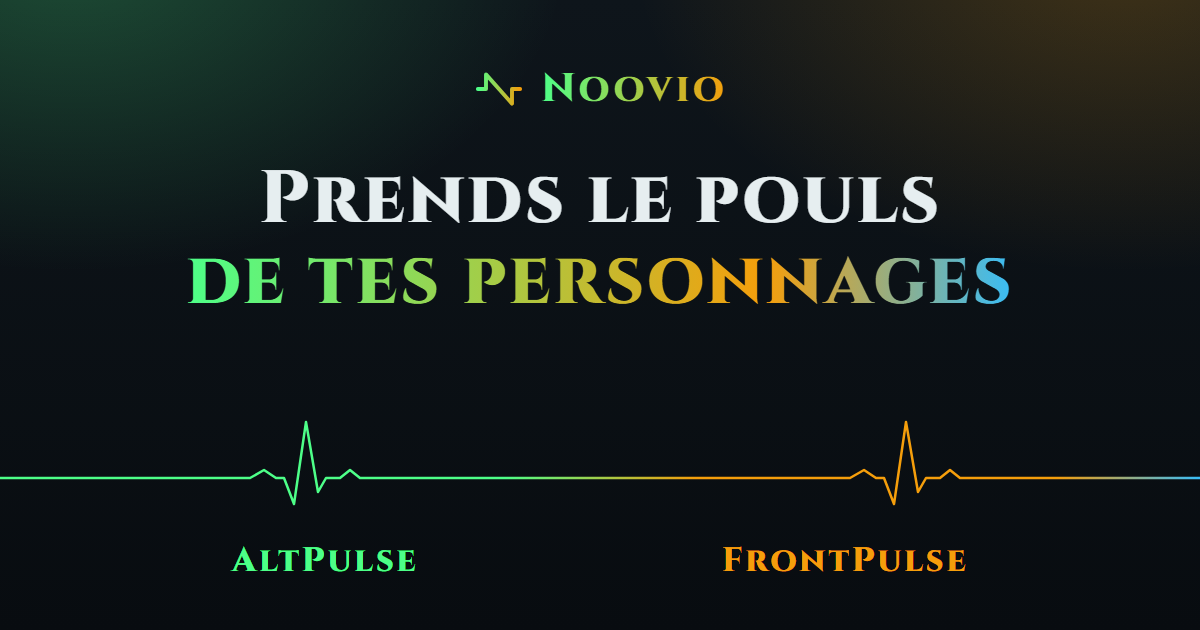
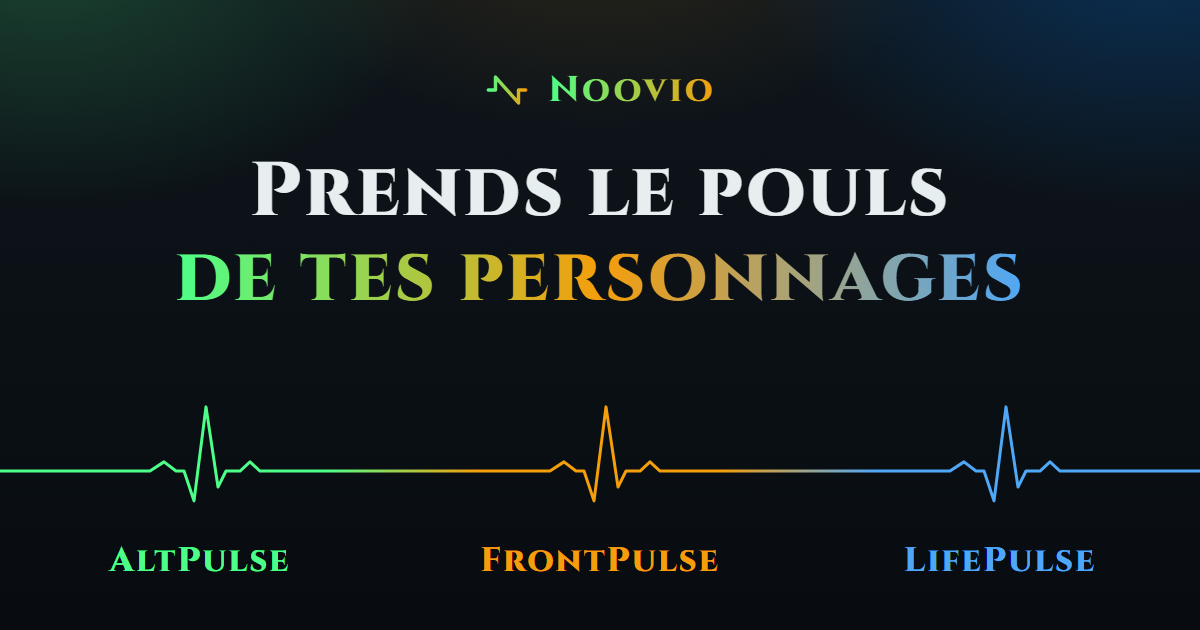
Present LifePulse on the Noovio page
The three tools sit side by side, with a third beat on the pulse line and a
new share image. The kicker above the title is gone.

diff --git a/LandingPagePulse/LandingPagePulse/Components/Pages/Home.razor.css b/LandingPagePulse/LandingPagePulse/Components/Pages/Home.razor.css
@@ -7,36 +7,8 @@
     text-align: center;
 }
 
-.hero-kicker {
-    display: inline-flex;
-    align-items: center;
-    gap: 8px;
-    padding: 4px 12px 4px 10px;
-    border-radius: 999px;
-    border: 1px solid var(--line-strong);
-    background: rgba(230, 238, 240, 0.04);
-    color: var(--text-dim);
-    font-size: 0.75rem;
-    font-weight: 700;
-    letter-spacing: 0.1em;
-    text-transform: uppercase;
-}
-
-/* pastille qui bat comme un pouls */
-.pulse-dot {
-    width: 8px;
-    height: 8px;
-    border-radius: 50%;
-    background: var(--venom);
-    animation: pulse 2s ease-out infinite;
-}
-@keyframes pulse {
-    0% { box-shadow: 0 0 0 0 rgba(77, 255, 136, 0.6); }
-    70%, 100% { box-shadow: 0 0 0 9px rgba(77, 255, 136, 0); }
-}
-
 .hero-title {
-    margin: 20px 0 14px;
+    margin: 0 0 14px;
     font-family: var(--font-title);
     font-size: clamp(2.2rem, 5.2vw, 4.25rem);
     font-weight: 800;
@@ -47,7 +19,7 @@
 .hero-title em {
     display: block;
     font-style: normal;
-    background: linear-gradient(90deg, var(--venom), var(--amber) 70%, var(--steel));
+    background: linear-gradient(90deg, var(--venom), var(--amber) 50%, var(--tide));
     -webkit-background-clip: text;
     background-clip: text;
     color: transparent;
@@ -83,13 +55,15 @@
     to { stroke-dashoffset: 0; }
 }
 
-/* --- Les deux portes ----------------------------------------------------- */
-.doors { display: grid; grid-template-columns: repeat(2, minmax(0, 1fr)); gap: 18px; }
+/* --- Les trois portes ---------------------------------------------------- */
+/* Chaque carte reprend les rangées de la grille (subgrid) : titres, aperçus et boutons s'alignent d'une carte à l'autre. */
+.doors { display: grid; grid-template-columns: repeat(3, minmax(0, 1fr)); grid-template-rows: repeat(5, auto); column-gap: 18px; }
 
 .door {
     position: relative;
-    display: flex;
-    flex-direction: column;
+    display: grid;
+    grid-row: span 5;
+    grid-template-rows: subgrid;
     padding: 26px;
     overflow: hidden;
     border-color: color-mix(in srgb, var(--accent) 28%, var(--line));
@@ -112,7 +86,7 @@
     box-shadow: 0 16px 50px rgba(0, 0, 0, 0.5), 0 0 34px var(--glow);
 }
 
-/* le motif de chaque outil, repris de son propre fond : écailles pour AltPulse, plaques rivetées pour FrontPulse */
+/* le motif de chaque outil, repris de son propre fond : écailles pour AltPulse, plaques rivetées pour FrontPulse, ondes pour LifePulse */
 .door-pattern {
     position: absolute;
     inset: 0;
@@ -136,7 +110,14 @@
     background-size: 56px 56px;
 }
 
-.door-head { position: relative; display: flex; flex-wrap: wrap; align-items: center; gap: 12px; }
+.tool-life .door-pattern {
+    opacity: 0.14;
+    background-image:
+        radial-gradient(circle at 50% 50%, transparent 12px, var(--accent) 13px, transparent 14px, transparent 25px, var(--accent) 26px, transparent 27px);
+    background-size: 60px 60px;
+}
+
+.door-head { position: relative; display: grid; grid-template-columns: auto minmax(0, 1fr); align-items: center; gap: 12px; }
 .door-head ::deep .tool-sigil {
     display: grid;
     place-items: center;
@@ -149,10 +130,10 @@
     box-shadow: 0 0 20px var(--glow);
 }
 
-.door-wordmark { display: inline-flex; flex-direction: column; align-items: flex-end; line-height: 1.05; }
+.door-wordmark { display: inline-flex; flex-direction: column; align-items: flex-start; line-height: 1.05; }
 .door-name {
     font-family: var(--font-title);
-    font-size: 1.75rem;
+    font-size: 1.6rem;
     font-weight: 800;
     letter-spacing: 0.08em;
     background: linear-gradient(90deg, var(--accent), var(--accent-2) 55%, var(--accent-3));
@@ -163,7 +144,8 @@
 .door-by { margin-top: 1px; font-size: 0.72rem; font-weight: 600; letter-spacing: 0.04em; color: var(--text-dim); }
 
 .door-badge {
-    margin-left: auto;
+    grid-column: 1 / -1;
+    justify-self: start;
     padding: 4px 10px;
     border-radius: 999px;
     border: 1px solid color-mix(in srgb, var(--accent) 35%, transparent);
@@ -175,8 +157,8 @@
     white-space: nowrap;
 }
 
-.door-title { position: relative; margin: 20px 0 8px; font-size: 1.4rem; font-weight: 700; line-height: 1.25; }
-.door-lead { position: relative; margin: 0; font-size: 0.98rem; line-height: 1.6; color: var(--text-dim); text-wrap: pretty; }
+.door-title { position: relative; margin: 18px 0 8px; font-size: 1.3rem; font-weight: 700; line-height: 1.25; }
+.door-lead { position: relative; margin: 0; font-size: 0.95rem; line-height: 1.6; color: var(--text-dim); text-wrap: pretty; }
 
 /* --- Aperçus (illustrations, valeurs fictives) --------------------------- */
 .preview {
@@ -184,6 +166,9 @@
     margin: 20px 0;
     padding: 16px;
     border-radius: 12px;
+    display: flex;
+    flex-direction: column;
+    justify-content: center;
     border: 1px solid var(--line);
     background: rgba(8, 12, 16, 0.62);
     font-size: 0.8rem;
@@ -204,8 +189,8 @@
     text-transform: uppercase;
 }
 
-.alt-grid { display: grid; grid-template-columns: minmax(0, 1.5fr) repeat(3, minmax(0, 1fr)); gap: 9px 8px; align-items: center; }
-.alt-grid > span { color: var(--text-dim); white-space: nowrap; overflow: hidden; text-overflow: ellipsis; }
+.alt-grid { display: grid; grid-template-columns: max-content repeat(3, minmax(0, 1fr)); gap: 9px 6px; align-items: center; }
+.alt-grid > span { color: var(--text-dim); white-space: nowrap; }
 .alt-grid > strong { color: var(--class); text-align: center; font-size: 0.78rem; }
 .alt-grid > b { text-align: center; font-weight: 600; }
 
@@ -218,15 +203,15 @@
 }
 .vault u.on { border-color: var(--accent); background: var(--accent); box-shadow: 0 0 7px var(--glow); }
 
-.front-report { display: flex; align-items: center; gap: 20px; }
+.report { display: flex; align-items: center; gap: 16px; }
 
 /* anneau de score : tracé en conic-gradient, à la valeur de --score */
 .score {
     display: grid;
     place-content: center;
     flex: none;
-    width: 92px;
-    height: 92px;
+    width: 84px;
+    height: 84px;
     border-radius: 50%;
     text-align: center;
     line-height: 1;
@@ -264,11 +249,11 @@
 }
 
 .legend { display: flex; align-items: center; justify-content: flex-end; gap: 6px; margin-top: 12px; font-size: 0.7rem; color: var(--text-dim); }
-.legend u { width: 14px; height: 6px; border-radius: 999px; background: var(--amber); }
+.legend u { width: 14px; height: 6px; border-radius: 999px; background: var(--accent); }
 .legend u.is-top { width: 2px; height: 12px; margin-left: 8px; background: var(--text); }
 
 /* --- Pied de carte ------------------------------------------------------- */
-.door-foot { position: relative; display: flex; flex-wrap: wrap; align-items: center; gap: 10px 16px; margin-top: auto; }
+.door-foot { position: relative; display: flex; flex-wrap: wrap; align-items: center; gap: 10px 16px; }
 
 .door-link {
     display: inline-flex;
@@ -279,7 +264,7 @@
     border-radius: 10px;
     color: var(--on-accent);
     font-weight: 700;
-    background: linear-gradient(135deg, var(--accent), var(--accent-2));
+    background: linear-gradient(135deg, var(--fill), var(--fill-2));
     box-shadow: 0 0 20px var(--glow);
     transition: box-shadow 0.15s;
 }
@@ -304,12 +289,13 @@
     text-align: center;
 }
 
-.questions { display: grid; grid-template-columns: repeat(2, minmax(0, 1fr)); gap: 10px 18px; margin: 0; padding: 0; list-style: none; }
+.questions { display: grid; grid-template-columns: repeat(3, minmax(0, 1fr)); gap: 10px 18px; margin: 0; padding: 0; list-style: none; }
 .questions a {
     display: flex;
-    align-items: center;
+    flex-direction: column;
+    align-items: flex-start;
     justify-content: space-between;
-    gap: 16px;
+    gap: 8px;
     height: 100%;
     padding: 12px 16px;
     border-radius: 10px;
@@ -328,25 +314,36 @@
 .answer { display: inline-flex; align-items: center; gap: 6px; flex: none; color: var(--accent); font-weight: 700; font-size: 0.85rem; }
 
 /* --- Écrans moyens et mobile --------------------------------------------- */
+/* Sous 1180 px, trois colonnes laissent peu de place : l'aperçu passe en pile. */
+@media (max-width: 1180px) {
+    .door { padding: 22px 18px; }
+    .preview { font-size: 0.72rem; padding: 16px 12px; }
+    .alt-grid > strong { font-size: 0.7rem; }
+    .report { flex-direction: column; align-items: stretch; }
+    .score { align-self: center; }
+}
 @media (max-width: 900px) {
     .doors, .questions { grid-template-columns: minmax(0, 1fr); }
+    .doors { grid-template-rows: none; row-gap: 18px; }
+    .door { grid-row: auto; grid-template-rows: none; padding: 26px; }
+    .preview { font-size: 0.8rem; padding: 16px; }
+    .alt-grid > strong { font-size: 0.78rem; }
+    .report { flex-direction: row; align-items: center; }
     .hero { padding-top: 24px; }
     .heartbeat { height: 72px; }
 }
 @media (max-width: 480px) {
     .door { padding: 20px 16px; }
-    .door-badge { margin-left: 0; }
     .door-link { width: 100%; justify-content: center; }
     .door-note { flex-basis: 100%; }
-    .front-report { gap: 14px; }
+    .report { gap: 14px; }
     .score { width: 76px; height: 76px; }
     .score strong { font-size: 1.4rem; }
     .gauges li { grid-template-columns: 66px minmax(0, 1fr); gap: 6px; }
-    .questions a { flex-direction: column; align-items: flex-start; gap: 6px; }
 }
 
 @media (prefers-reduced-motion: reduce) {
-    .pulse-dot, .heartbeat-spark { animation: none; }
+    .heartbeat-spark { animation: none; }
     .heartbeat-spark { display: none; }
     .door, .door:hover, .door:focus-within { transform: none; }
 }

diff --git a/LandingPagePulse/LandingPagePulse/wwwroot/app.css b/LandingPagePulse/LandingPagePulse/wwwroot/app.css
@@ -1,7 +1,7 @@
 /* ==========================================================================
    Noovio - thème « Battement »
-   Même structure que AltPulse et FrontPulse (en-tête, panneaux, pied de page) ;
-   la page se partage entre leurs deux univers : vert venin à gauche, ambre de forge à droite.
+   Même structure que les outils (en-tête, panneaux, pied de page) ;
+   la page se partage entre leurs univers : vert venin à gauche, ambre de forge au centre, bleu chaman à droite.
    Les styles propres à la page sont dans Home.razor.css.
    ========================================================================== */
 
@@ -17,7 +17,7 @@
 
     --venom: #4DFF88;
     --amber: #F59E0B;
-    --steel: #38BDF8;
+    --tide: #4FA8F7;
 
     --text: #E6EEF0;
     --text-dim: #A3B3BC;
@@ -33,6 +33,8 @@
     --accent: #4DFF88;
     --accent-2: #9DFF3C;
     --accent-3: #D7FF5A;
+    --fill: #4DFF88;
+    --fill-2: #9DFF3C;
     --glow: rgba(77, 255, 136, 0.3);
     --on-accent: #04140A;
 }
@@ -40,8 +42,20 @@
     --accent: #F59E0B;
     --accent-2: #D97706;
     --accent-3: #38BDF8;
+    --fill: #F59E0B;
+    --fill-2: #D97706;
     --glow: rgba(245, 158, 11, 0.32);
     --on-accent: #1A1204;
+}
+/* #0070DD reste la couleur des aplats : sur ce fond sombre, le texte en prend une teinte plus claire pour rester lisible. */
+.tool-life {
+    --accent: #4FA8F7;
+    --accent-2: #2E8FEA;
+    --accent-3: #2DD4BF;
+    --fill: #0070DD;
+    --fill-2: #0057AD;
+    --glow: rgba(0, 112, 221, 0.42);
+    --on-accent: #FFFFFF;
 }
 
 *, *::before, *::after { box-sizing: border-box; }
@@ -76,6 +90,7 @@ a:hover { text-decoration: underline; }
     background: linear-gradient(180deg, var(--bg-2), var(--bg));
 }
 .noovio-backdrop::before,
+.noovio-backdrop span,
 .noovio-backdrop::after {
     content: "";
     position: absolute;
@@ -90,15 +105,24 @@ a:hover { text-decoration: underline; }
 }
 .noovio-backdrop::after {
     background:
-        radial-gradient(1000px 640px at 92% -8%, rgba(245, 158, 11, 0.16), transparent 62%),
-        radial-gradient(700px 600px at 100% 100%, rgba(37, 99, 235, 0.16), transparent 65%);
+        radial-gradient(1000px 640px at 92% -8%, rgba(0, 112, 221, 0.22), transparent 62%),
+        radial-gradient(700px 600px at 100% 100%, rgba(45, 212, 191, 0.1), transparent 65%);
+}
+.noovio-backdrop span {
+    background: radial-gradient(900px 560px at 50% -12%, rgba(245, 158, 11, 0.14), transparent 62%);
 }
 body:has(.tool-alt:hover) .noovio-backdrop::before,
 body:has(.tool-alt:focus-visible) .noovio-backdrop::before,
-body:has(.tool-front:hover) .noovio-backdrop::after,
-body:has(.tool-front:focus-visible) .noovio-backdrop::after { opacity: 1; }
+body:has(.tool-front:hover) .noovio-backdrop span,
+body:has(.tool-front:focus-visible) .noovio-backdrop span,
+body:has(.tool-life:hover) .noovio-backdrop::after,
+body:has(.tool-life:focus-visible) .noovio-backdrop::after { opacity: 1; }
+body:has(.tool-alt:hover) .noovio-backdrop span,
 body:has(.tool-alt:hover) .noovio-backdrop::after,
-body:has(.tool-front:hover) .noovio-backdrop::before { opacity: 0.25; }
+body:has(.tool-front:hover) .noovio-backdrop::before,
+body:has(.tool-front:hover) .noovio-backdrop::after,
+body:has(.tool-life:hover) .noovio-backdrop::before,
+body:has(.tool-life:hover) .noovio-backdrop span { opacity: 0.25; }
 
 /* --- En-tête ------------------------------------------------------------- */
 .topbar {
@@ -305,7 +329,8 @@ body:has(.tool-front:hover) .noovio-backdrop::before { opacity: 0.25; }
     .footer { padding: 24px 16px 28px; }
     .footer-inner { flex-direction: column; align-items: flex-start; }
 }
-@media (max-width: 480px) {
+/* Trois liens et le logo ne tiennent pas sur une ligne : les noms laissent place aux emblèmes. */
+@media (max-width: 640px) {
     .tool-link { width: 36px; padding: 0; justify-content: center; }
     .tool-link-name { display: none; }
 }

diff --git a/LandingPagePulse/LandingPagePulse/Program.cs b/LandingPagePulse/LandingPagePulse/Program.cs
@@ -24,7 +24,7 @@ app.UseHttpsRedirection();
 
 app.UseAntiforgery();
 
-// Une redirection par outil (/altpulse, /frontpulse) : les adresses vivent dans la configuration.
+// Une redirection par outil (/altpulse, /frontpulse, /lifepulse) : les adresses vivent dans la configuration.
 // 302 et non 301 : un navigateur ne mémorise pas la cible, qui peut donc changer sans laisser de trace.
 foreach (var (slug, url) in app.Configuration.GetRequiredSection("Tools").Get<Dictionary<string, string>>()!)
 {

diff --git a/LandingPagePulse/README.md b/LandingPagePulse/README.md
@@ -1,10 +1,10 @@
 # LandingPagePulse by Noovio
 
-Presentation page of the Noovio brand at https://www.noovio.fr: it introduces AltPulse and FrontPulse and sends visitors to them.
+Presentation page of the Noovio brand at https://www.noovio.fr: it introduces AltPulse, FrontPulse and LifePulse and sends visitors to them.
 
 - **Stack**: ASP.NET Core / Blazor Web App .NET 10, static server rendering only (no circuit, no WebAssembly, no JavaScript, no cookie, no database).
-- **Redirects**: `/altpulse` and `/frontpulse` answer a 302 to the tool. The targets live in `appsettings.json` (`Tools` section), and every link on the page goes through them.
-- **Theme**: « Battement », the page is shared between the two tools' worlds: AltPulse's venom green on the left, FrontPulse's forge amber on the right. The side of the tool being hovered lights up.
+- **Redirects**: `/altpulse`, `/frontpulse` and `/lifepulse` answer a 302 to the tool. The targets live in `appsettings.json` (`Tools` section), and every link on the page goes through them.
+- **Theme**: « Battement », the page is shared between the three tools' worlds: AltPulse's venom green on the left, FrontPulse's forge amber in the centre, LifePulse's shaman blue on the right. The side of the tool being hovered lights up.
 
 ## Run it
 
@@ -13,11 +13,11 @@ dotnet run --project LandingPagePulse/LandingPagePulse --launch-profile http
 # → http://localhost:5188
 ```
 
-In development, the redirects target the tools' local ports (5166 and 5177).
+In development, the redirects target the tools' local ports (5166, 5177 and 5178).
 
 ## Production (https://www.noovio.fr)
 
-Hosted on the same OVH VPS as AltPulse and FrontPulse.
+Hosted on the same OVH VPS as AltPulse, FrontPulse and LifePulse.
 
 | Piece | Location |
 |---|---|
